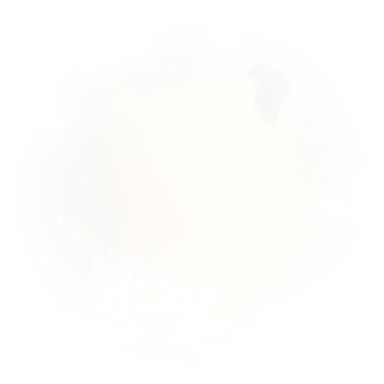
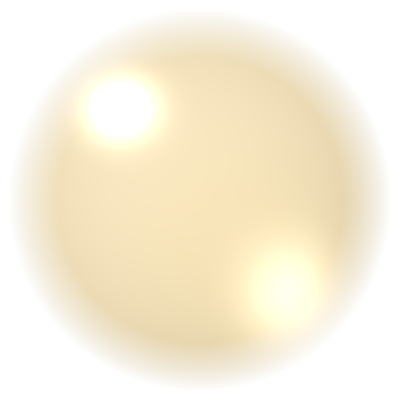
Add files via upload

diff --git a/index.html b/index.html
@@ -219,6 +219,30 @@
 .ball[data-level="7"],.drop-preview[data-level="7"],.next-ball[data-level="7"]{--ink:#923829}
 .ball[data-level="8"],.drop-preview[data-level="8"],.next-ball[data-level="8"]{--ink:#365b36}
 .ball[data-level="9"],.drop-preview[data-level="9"],.next-ball[data-level="9"]{--ink:#7e4d0c}
+
+/* V15 bright glass: freshly drawn transparent orbs, legible ink, no outline */
+.ball,.drop-preview,.next-ball{background:none!important;border:0!important;box-shadow:none!important;overflow:visible!important}
+.ball::before,.drop-preview::before,.next-ball::before{
+ background:var(--marble) center/100% 100% no-repeat!important;
+ filter:drop-shadow(0 3px 3px #122c4c38)!important;box-shadow:none!important;
+ border:0!important;opacity:1!important
+}
+.ball::after,.drop-preview::after,.next-ball::after{display:none!important;content:none!important}
+.ball .marble-letter,.drop-preview .marble-letter,.next-ball .marble-letter{
+ color:var(--ink)!important;-webkit-text-stroke:.15px var(--ink)!important;
+ text-shadow:0 1px 1px #ffffffee!important;filter:none!important;
+ opacity:1!important;transform:none!important;z-index:5!important
+}
+.ball[data-level="0"],.drop-preview[data-level="0"],.next-ball[data-level="0"]{--ink:#164d6b}
+.ball[data-level="1"],.drop-preview[data-level="1"],.next-ball[data-level="1"]{--ink:#174a91}
+.ball[data-level="2"],.drop-preview[data-level="2"],.next-ball[data-level="2"]{--ink:#93375c}
+.ball[data-level="3"],.drop-preview[data-level="3"],.next-ball[data-level="3"]{--ink:#633c9a}
+.ball[data-level="4"],.drop-preview[data-level="4"],.next-ball[data-level="4"]{--ink:#875413}
+.ball[data-level="5"],.drop-preview[data-level="5"],.next-ball[data-level="5"]{--ink:#126e69}
+.ball[data-level="6"],.drop-preview[data-level="6"],.next-ball[data-level="6"]{--ink:#65429c}
+.ball[data-level="7"],.drop-preview[data-level="7"],.next-ball[data-level="7"]{--ink:#9a3c38}
+.ball[data-level="8"],.drop-preview[data-level="8"],.next-ball[data-level="8"]{--ink:#47702c}
+.ball[data-level="9"],.drop-preview[data-level="9"],.next-ball[data-level="9"]{--ink:#8b5814}
 </style></head><body><div class="app">
 <header class="hero"><div class="brand"><div class="crest">滅</div><div><div class="eyebrow">THE MUNPA · MELCHEON</div><h1>멸천 문파</h1><div class="sub">하늘을 넘어, 함께 나아가다</div></div></div></header>
 <main>
